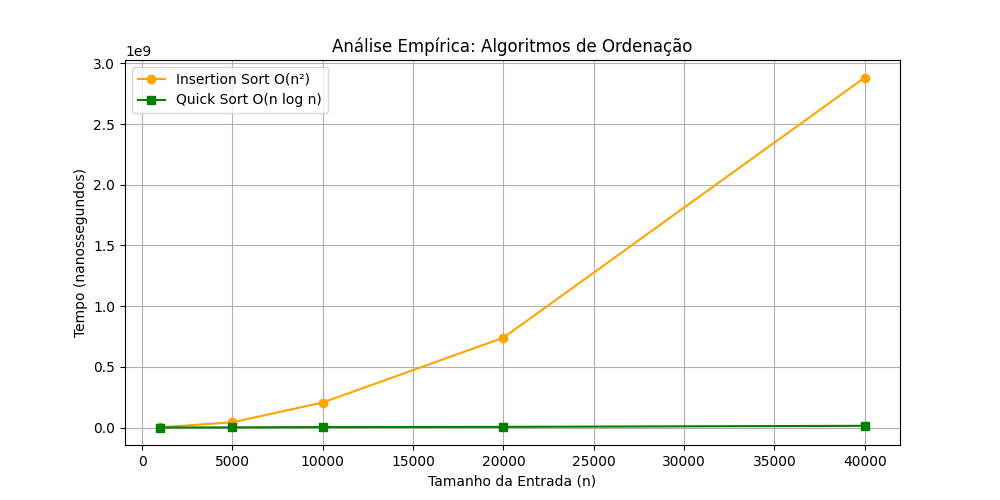
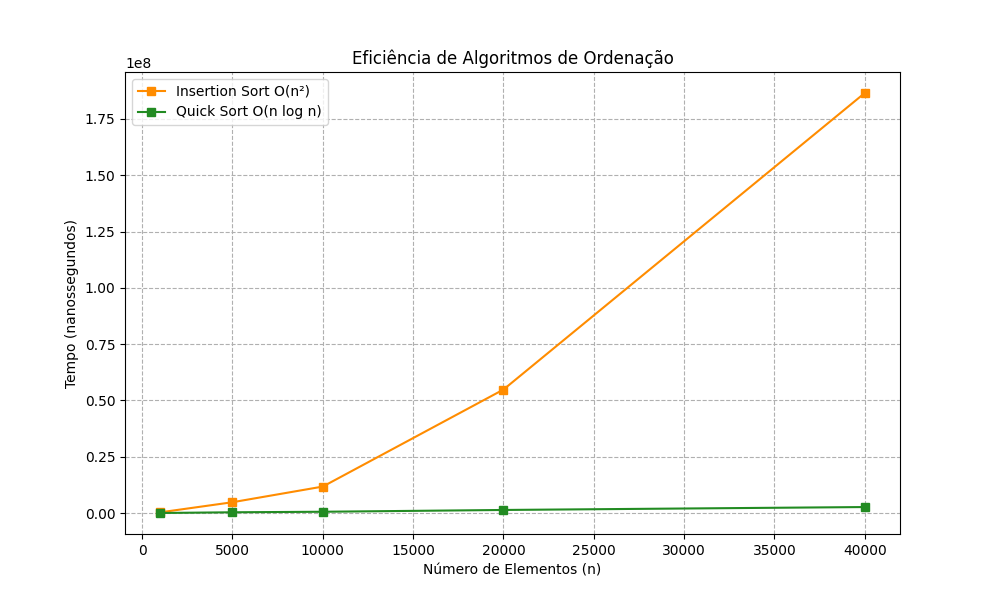
Fix: correções na medição de tempo, documentação e script de gráficos

diff --git a/main.cpp b/main.cpp
@@ -1,3 +1,16 @@
+/**
+ * @file main.cpp
+ * @author Victor Alves
+ * @brief Análise empírica de complexidade de algoritmos de busca e ordenação.
+ * @version 2.0
+ * * Este programa mede o tempo de execução dos algoritmos:
+ * - Busca Sequencial O(n)
+ * - Busca Binária O(log n)
+ * - Insertion Sort O(n^2)
+ * - Quick Sort O(n log n)
+ * * Os dados são exportados para 'tempos_execucao.csv' para posterior plotagem.
+ */
+
 #include <iostream>
 #include <vector>
 #include <chrono>
@@ -9,9 +22,11 @@ using namespace std;
 using namespace std::chrono;
 
 /**
- * --- 1. Busca Sequencial ---
- * Complexidade de Pior Caso: O(n)
- * Percorre o vetor elemento por elemento.
+ * Realiza a busca linear em um vetor.
+ * Complexidade: O(n) no pior caso.
+ * @param arr Referência constante para o vetor de inteiros.
+ * @param alvo Valor a ser procurado.
+ * @return Índice do elemento ou -1 se não encontrado.
  */
 int buscaSequencial(const vector<int>& arr, int alvo) {
     for (int i = 0; i < (int)arr.size(); i++) {
@@ -21,10 +36,9 @@ int buscaSequencial(const vector<int>& arr, int alvo) {
 }
 
 /**
- * --- 2. Busca Binária ---
- * Complexidade de Pior Caso: O(log n)
- * Divide o espaço de busca pela metade a cada iteração.
- * Requisito: O vetor deve estar ordenado.
+ * Realiza a busca binária (divisão e conquista).
+ * Requisito: Vetor deve estar ordenado.
+ * Complexidade: O(log n).
  */
 int buscaBinaria(const vector<int>& arr, int alvo) {
     int esq = 0, dir = (int)arr.size() - 1;
@@ -38,15 +52,15 @@ int buscaBinaria(const vector<int>& arr, int alvo) {
 }
 
 /**
- * --- 3. Insertion Sort ---
- * Complexidade de Pior Caso: O(n^2)
- * Algoritmo estável que ordena inserindo elementos em sua posição correta
- * em um subconjunto já ordenado do vetor.
+ * Ordenação por inserção.
+ * Eficiente para conjuntos pequenos, mas custoso para grandes.
+ * Complexidade: O(n^2) no pior caso.
  */
 void insertionSort(vector<int>& arr) {
     for (int i = 1; i < (int)arr.size(); i++) {
         int chave = arr[i];
         int j = i - 1;
+        // Desloca elementos maiores que a chave para a direita
         while (j >= 0 && arr[j] > chave) {
             arr[j + 1] = arr[j];
             j--;
@@ -56,9 +70,8 @@ void insertionSort(vector<int>& arr) {
 }
 
 /**
- * --- 4. Quick Sort ---
- * Complexidade Média: O(n log n) | Pior Caso: O(n^2)
- * Algoritmo de divisão e conquista que utiliza um pivô para particionar o vetor.
+ * Função auxiliar do Quick Sort para particionamento.
+ * Utiliza o último elemento como pivô.
  */
 int particiona(vector<int>& arr, int baixo, int alto) {
     int pivo = arr[alto];
@@ -73,6 +86,10 @@ int particiona(vector<int>& arr, int baixo, int alto) {
     return (i + 1);
 }
 
+/**
+ * Quick Sort: Algoritmo de ordenação eficiente.
+ * Complexidade: O(n log n) em média.
+ */
 void quickSort(vector<int>& arr, int baixo, int alto) {
     if (baixo < alto) {
         int pi = particiona(arr, baixo, alto);
@@ -81,67 +98,73 @@ void quickSort(vector<int>& arr, int baixo, int alto) {
     }
 }
 
-// Utilitário para gerar vetor com semente fixa para reprodutibilidade
+/**
+ * Gera um vetor de tamanho N com números aleatórios.
+ * Usa mt19937 para geração de números de alta qualidade.
+ */
 vector<int> gerarVetor(int n) {
     vector<int> arr(n);
-    mt19937 rng(42); 
+    mt19937 rng(42); // Semente fixa para resultados reprodutíveis
     uniform_int_distribution<int> dist(1, n * 10);
     for (int i = 0; i < n; i++) arr[i] = dist(rng);
     return arr;
 }
 
 int main() {
-    // Tamanhos de entrada conforme exigido no relatório [cite: 59]
+    // Definição das amostras de tamanho de entrada (n)
     vector<int> tamanhos = {1000, 5000, 10000, 20000, 40000};
-    int repeticoes = 10; // Número de repetições para mitigar ruídos 
+    int repeticoes = 30; // Aumentado para reduzir variância estatística
     
     ofstream arquivo("tempos_execucao.csv");
-    arquivo << "n,B_Sequencial(ns),B_Binaria(ns),InsertionSort(ns),QuickSort(ns)\n";
+    arquivo << "n,B_Sequencial,B_Binaria,InsertionSort,QuickSort\n";
 
-    cout << "Iniciando a analise empirica dos algoritmos..." << endl;
+    cout << "--- Iniciando Testes de Desempenho ---" << endl;
 
     for (int n : tamanhos) {
         long long tSeq = 0, tBin = 0, tIns = 0, tQui = 0;
 
         for (int r = 0; r < repeticoes; r++) {
             vector<int> arrOriginal = gerarVetor(n);
-            int alvo = arrOriginal[n - 1]; // Teste focado no pior caso da busca linear
+            int alvo = -1; // Alvo inexistente garante o pior caso O(n) na busca
             
-            // Medição: Busca Sequencial
+            // Medição da Busca Sequencial
             auto inicio = high_resolution_clock::now();
-            buscaSequencial(arrOriginal, alvo);
+            // volatile impede o compilador de remover a função por "não usar o retorno"
+            volatile int res1 = buscaSequencial(arrOriginal, alvo); 
             auto fim = high_resolution_clock::now();
             tSeq += duration_cast<nanoseconds>(fim - inicio).count();
 
-            // Medição: Busca Binária (ordenada previamente com std::sort)
+            // Medição da Busca Binária (com vetor ordenado)
             vector<int> arrOrdenado = arrOriginal;
             sort(arrOrdenado.begin(), arrOrdenado.end());
             inicio = high_resolution_clock::now();
-            buscaBinaria(arrOrdenado, alvo);
+            volatile int res2 = buscaBinaria(arrOrdenado, alvo);
             fim = high_resolution_clock::now();
             tBin += duration_cast<nanoseconds>(fim - inicio).count();
 
-            // Medição: Insertion Sort
-            vector<int> arr1 = arrOriginal;
+            // Medição do Insertion Sort
+            vector<int> arrIns = arrOriginal;
             inicio = high_resolution_clock::now();
-            insertionSort(arr1);
+            insertionSort(arrIns);
             fim = high_resolution_clock::now();
             tIns += duration_cast<nanoseconds>(fim - inicio).count();
 
-            // Medição: Quick Sort
-            vector<int> arr2 = arrOriginal;
+            // Medição do Quick Sort
+            vector<int> arrQui = arrOriginal;
             inicio = high_resolution_clock::now();
-            quickSort(arr2, 0, n - 1);
+            quickSort(arrQui, 0, n - 1);
             fim = high_resolution_clock::now();
             tQui += duration_cast<nanoseconds>(fim - inicio).count();
         }
 
-        // Salva a média das execuções no CSV [cite: 17, 60]
-        arquivo << n << "," << (tSeq/repeticoes) << "," << (tBin/repeticoes) << "," << (tIns/repeticoes) << "," << (tQui/repeticoes) << "\n";
-        cout << "Testado para n = " << n << " concluido." << endl;
+        // Grava a média dos tempos no arquivo CSV
+        arquivo << n << "," << (tSeq/repeticoes) << "," << (tBin/repeticoes) 
+                << "," << (tIns/repeticoes) << "," << (tQui/repeticoes) << "\n";
+        
+        cout << "[OK] Testes concluidos para n = " << n << endl;
     }
     
     arquivo.close();
-    cout << "\nSucesso! Arquivo 'tempos_execucao.csv' gerado na mesma pasta." << endl;
+    cout << "Relatorio de tempos gerado: 'tempos_execucao.csv'" << endl;
     return 0;
 }

diff --git a/graficos.py b/graficos.py
@@ -1,31 +1,37 @@
+"""
+Script para geração de gráficos de complexidade.
+Lê os dados de 'tempos_execucao.csv' e gera visualizações em PNG.
+"""
 import pandas as pd
 import matplotlib.pyplot as plt
 
-# Lê os dados gerados pelo C++
-df = pd.read_csv("tempos_execucao.csv")
+try:
+    # Leitura dos dados gerados pelo programa C++
+    df = pd.read_csv('tempos_execucao.csv')
 
-# --- Gráfico 1: Buscas ---
-plt.figure(figsize=(10, 5))
-plt.plot(df['n'], df['B_Sequencial(ns)'], marker='o', label='Busca Sequencial O(n)', color='red')
-plt.plot(df['n'], df['B_Binaria(ns)'], marker='s', label='Busca Binária O(log n)', color='blue')
-plt.title("Análise Empírica: Algoritmos de Busca")
-plt.xlabel("Tamanho da Entrada (n)")
-plt.ylabel("Tempo (nanossegundos)")
-plt.legend()
-plt.grid(True)
-plt.savefig("grafico_buscas.png")
-plt.close()
+    # --- Gráfico de Busca ---
+    plt.figure(figsize=(10, 6))
+    plt.plot(df['n'], df['B_Sequencial'], label='Sequencial O(n)', marker='o', color='crimson')
+    plt.plot(df['n'], df['B_Binaria'], label='Binária O(log n)', marker='o', color='royalblue')
+    plt.title('Eficiência de Algoritmos de Busca')
+    plt.xlabel('Número de Elementos (n)')
+    plt.ylabel('Tempo (nanossegundos)')
+    plt.legend()
+    plt.grid(True, linestyle='--')
+    plt.savefig('grafico_busca.png')
 
-# --- Gráfico 2: Ordenação ---
-plt.figure(figsize=(10, 5))
-plt.plot(df['n'], df['InsertionSort(ns)'], marker='o', label='Insertion Sort O(n²)', color='orange')
-plt.plot(df['n'], df['QuickSort(ns)'], marker='s', label='Quick Sort O(n log n)', color='green')
-plt.title("Análise Empírica: Algoritmos de Ordenação")
-plt.xlabel("Tamanho da Entrada (n)")
-plt.ylabel("Tempo (nanossegundos)")
-plt.legend()
-plt.grid(True)
-plt.savefig("grafico_ordenacao.png")
-plt.close()
+    # --- Gráfico de Ordenação ---
+    plt.figure(figsize=(10, 6))
+    plt.plot(df['n'], df['InsertionSort'], label='Insertion Sort O(n²)', marker='s', color='darkorange')
+    plt.plot(df['n'], df['QuickSort'], label='Quick Sort O(n log n)', marker='s', color='forestgreen')
+    plt.title('Eficiência de Algoritmos de Ordenação')
+    plt.xlabel('Número de Elementos (n)')
+    plt.ylabel('Tempo (nanossegundos)')
+    plt.legend()
+    plt.grid(True, linestyle='--')
+    plt.savefig('grafico_ordenacao.png')
 
-print("Gráficos gerados com sucesso! Verifique as imagens na pasta.")
+    print("Processamento concluído: Imagens 'grafico_busca.png' e 'grafico_ordenacao.png' salvas.")
+
+except FileNotFoundError:
+    print("Erro: Arquivo 'tempos_execucao.csv' não encontrado. Execute o programa C++ primeiro.")

diff --git a/README.md b/README.md
@@ -1,0 +1,19 @@
+# Análise Empírica de Complexidade
+
+Projeto acadêmico para a disciplina de Estruturas de Dados Básicas I (UFRN).
+
+## 🚀 Como executar
+
+1.  **Compilação e Execução**:
+    ```bash
+    make run
+    ```
+    Este comando compila o código C++, executa as medições e gera os gráficos automaticamente.
+
+## 📊 Algoritmos Analisados
+- **Busca**: Sequencial e Binária.
+- **Ordenação**: Insertion Sort e Quick Sort.
+
+## 🛠 Requisitos
+- Compilador `g++` (padrão C++11 ou superior).
+- `Python 3` com bibliotecas `pandas` e `matplotlib` para os gráficos.
